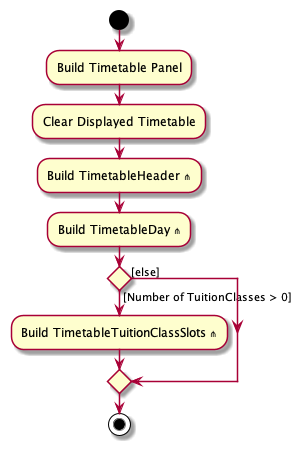
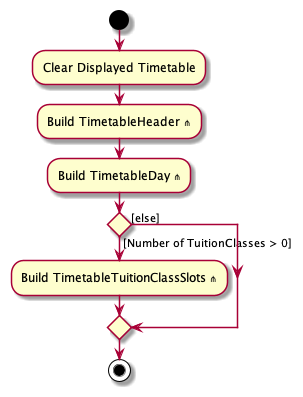
Add Timetable UI implementation to DG

diff --git a/docs/DeveloperGuide.md b/docs/DeveloperGuide.md
@@ -9,7 +9,7 @@ title: Developer Guide
 
 ## **Acknowledgements**
 
-* {list here sources of all reused/adapted ideas, code, documentation, and third-party libraries -- include links to the original source as well}
+* Past year projects: [Link](https://github.com/AY1920S2-CS2103-W15-4/main)
 
 --------------------------------------------------------------------------------------------------------------------
 
@@ -73,7 +73,7 @@ The **API** of this component is specified in [`Ui.java`](https://github.com/se-
 
 ![Structure of the UI Component](images/UiClassDiagram.png)
 
-The UI consists of a `MainWindow` that is made up of parts e.g.`CommandBox`, `ResultDisplay`, `PersonListPanel`, `StatusBarFooter` etc. All these, including the `MainWindow`, inherit from the abstract `UiPart` class which captures the commonalities between classes that represent parts of the visible GUI.
+The UI consists of a `MainWindow` that is made up of parts e.g.`CommandBox`, `ResultDisplay`, `StudentListPanel`, `StatusBarFooter` etc. All these, including the `MainWindow`, inherit from the abstract `UiPart` class which captures the commonalities between classes that represent parts of the visible GUI.
 
 The `UI` component uses the JavaFx UI framework. The layout of these UI parts are defined in matching `.fxml` files that are in the `src/main/resources/view` folder. For example, the layout of the [`MainWindow`](https://github.com/se-edu/addressbook-level3/tree/master/src/main/java/seedu/address/ui/MainWindow.java) is specified in [`MainWindow.fxml`](https://github.com/se-edu/addressbook-level3/tree/master/src/main/resources/view/MainWindow.fxml)
 
@@ -86,7 +86,13 @@ The `UI` component,
 * depends on some classes in the `Model` component, as it displays `Person` object residing in the `Model`.
 
 #### Timetable UI
-<Stuart's part here>
+Adapted from [here](https://github.com/AY1920S2-CS2103-W15-4/main/tree/master/src/main/java/clzzz/helper/ui/calendar)
+
+![TimetableUi Class Diagram](images/TimetableDiagram.png)
+
+The TimetablePanel is made up of `TimetableDay`, `TimetableHeader`, `TimetableTuitionClassSlot` and `TimetableEmptySlot`.
+They represent the day panel on the left, the header at the top with the label and timings, the slots representing the `TuitionClass`es and the empty slots between `TuitionClass`es respectively.
+The TimetablePanel takes in an `ObservableList<TuitionClass>` to build the Timetable.
 
 #### ClassPanel UI
 ![Structure of ClassPanel](images/ClassPanelUiClassDiagram.png)  
@@ -231,14 +237,33 @@ in the search.
 The timetable feature is a feature which displays the user's classes in a visual timetable format.
 
 #### Implementation
-When the TimesTable starts, it uses the uniqueClassList to build the timetable UI in the timetable tab. It sorts the
-classes in order of class timing (earliest class first) and builds them iteratively. There is also a listener attached
-to the uniqueClassList which causes the timetable to rebuild itself whenever there are changes to the uniqueClassList, 
-such as when a new class is added or an existing class is deleted from the uniqueClassList.
+The class diagram for Timetable as shown in the [TimetableUI component](#Timetable UI) is replicated here for convenience.
+![Timetable Class Diagram](images/TimetableDiagram.png)
+The image below shows the respective parts of the `TimetablePanel`:
+* The green box represents the `TimetableDay`, and there are 7 `TimetableDay` parts to represent the 7 days of the week. 
+* The yellow box represents the `TimetableHeader`, with the box all the way at the left with the label "Time Slots" representing the `TimetableHeaderLabel`, and the others representing the `TimetableHeaderTiming`. There is always 1 `TimetableHeaderLabel` but can have many `TimetableHeaderTiming` parts depending on the earliest start time of the week and latest end time.
+* The purple box represents the `TimetableEmptySlot`.
+* The light blue box represents the `TimetableTuitionClassSlot`.
+![Timetable annotation](images/TimetableAnnotation.png)
 
-Additionally, due to the limited size of the app window, the timetable would adjust itself and starts everyday with the
-earliest class timing so that the timetable would not look cluttered. There is a time panel at the top to indicate what
-time are the slots at.
+`TimetablePanel` uses an `ObservableList<TuitionClass>` to build the Timetable UI in the timetable tab through the `build()` method in `TimetablePanel` which takes in an `ObservableList<TuitionClass>`.
+`TimetablePanel` builds the Timetable UI by sections, starting from the `TimetableHeader`s, followed by the `TimetableDay`s, and finally the `TimetableTuitionClassSlot`s and `TimetableEmptySlot`s simultaneously. 
+It sorts the classes in order of class timing (earliest class first) before building the `TimetableTuitionClassSlot`s and `TimetableEmptySlot`s. 
+
+A listener is attached to the `ObservableList<TuitionClass>` which updates the Timetable UI whenever there are changes to the `ObservableList<TuitionClass>`,
+such as when a new class is added, or an existing class is edited from the `ObservableList<TuitionClass>`.
+
+[comment]: <> (Due to the limited size of the application's window, the Timetable UI would adjust itself and starts the days of the Timetable UI with the)
+
+[comment]: <> (earliest start timing and ends with the latest end timing so that the timetable is not cluttered. There is a time panel at the top to indicate what)
+
+The activity diagrams below illustrate how the Timetable UI is built.
+
+![Timetable Overall Activity Diagram](images/BuildTimetableOverallDiagram.png)
+![TimetableHeader Activity Diagram](images/BuildTimetableHeaderActivityDiagram-Activity__Build_TimetableHeader.png)
+![TimetableDay Activity Diagram](images/BuildTimetableDayActivityDiagram-Activity__Build_TimetableDay.png)
+![TimetableTuitionClassSlot Activity Diagram](images/BuildTimetableTuitionClassSlotsActivityDiagram-Activity__Build_TimetableTuitionClassSlots.png)
+![Find earliest start hour and latest end hour Activity Diagram](images/FindEarliestAndLatestHourActivityDiagram-Activity__Find_earliest_start_hour_and_latest_end_hour.png)
 
 ### Adding a Student to a class
 When adding a student, a Class is automatically created if a class at the same timing doesn't already exist.
